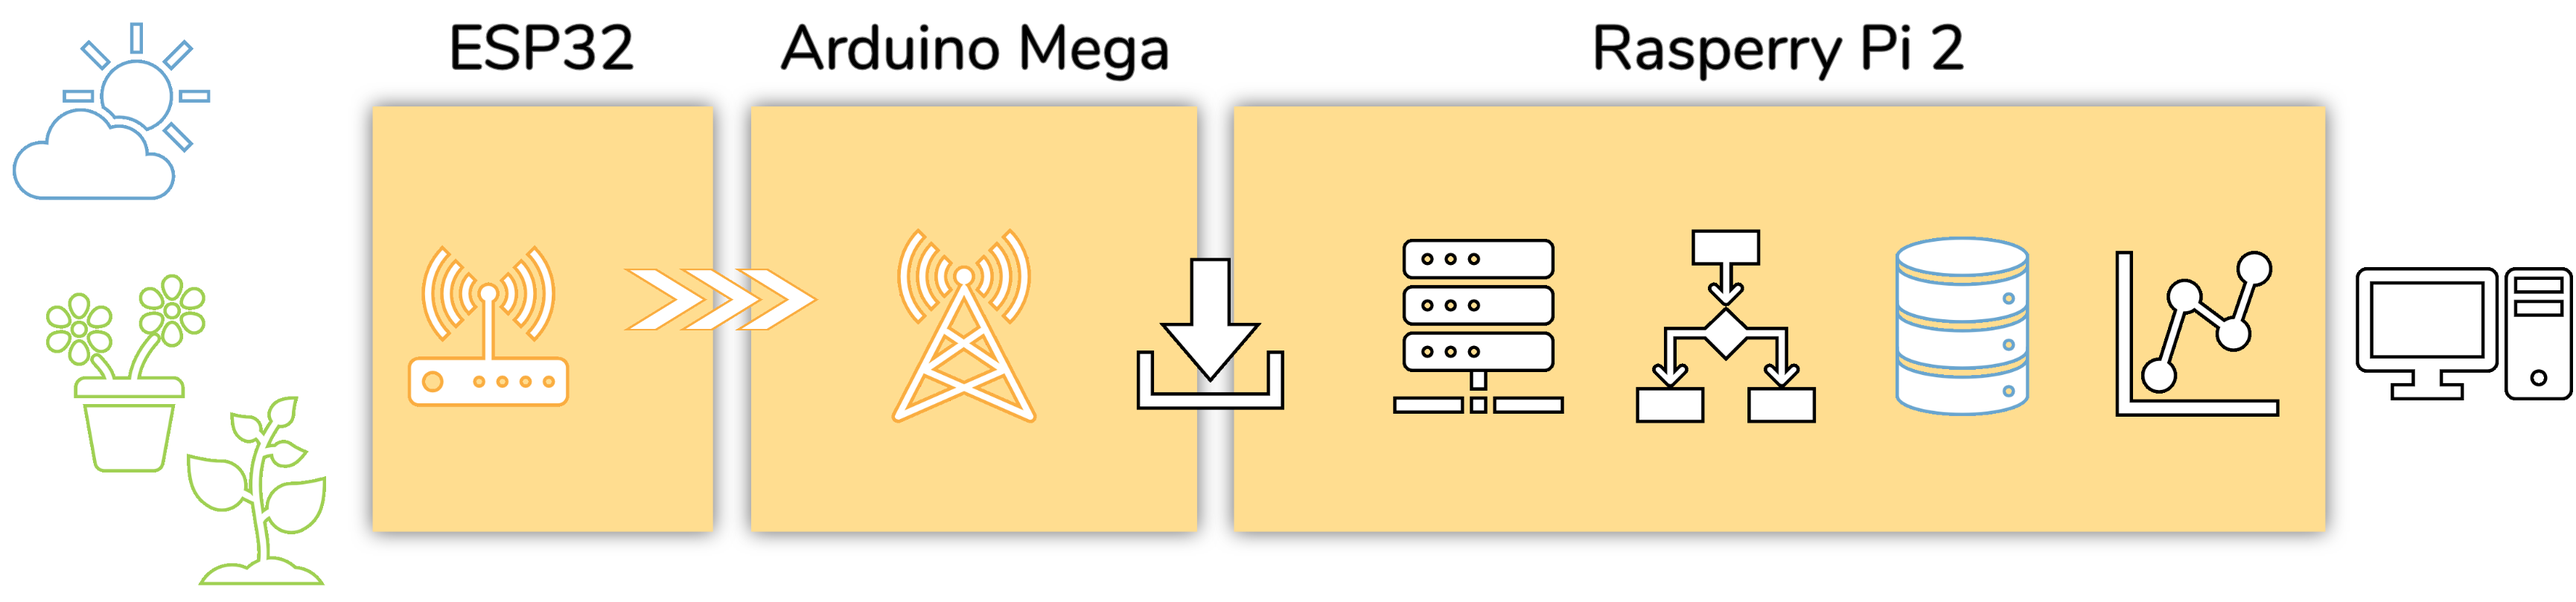
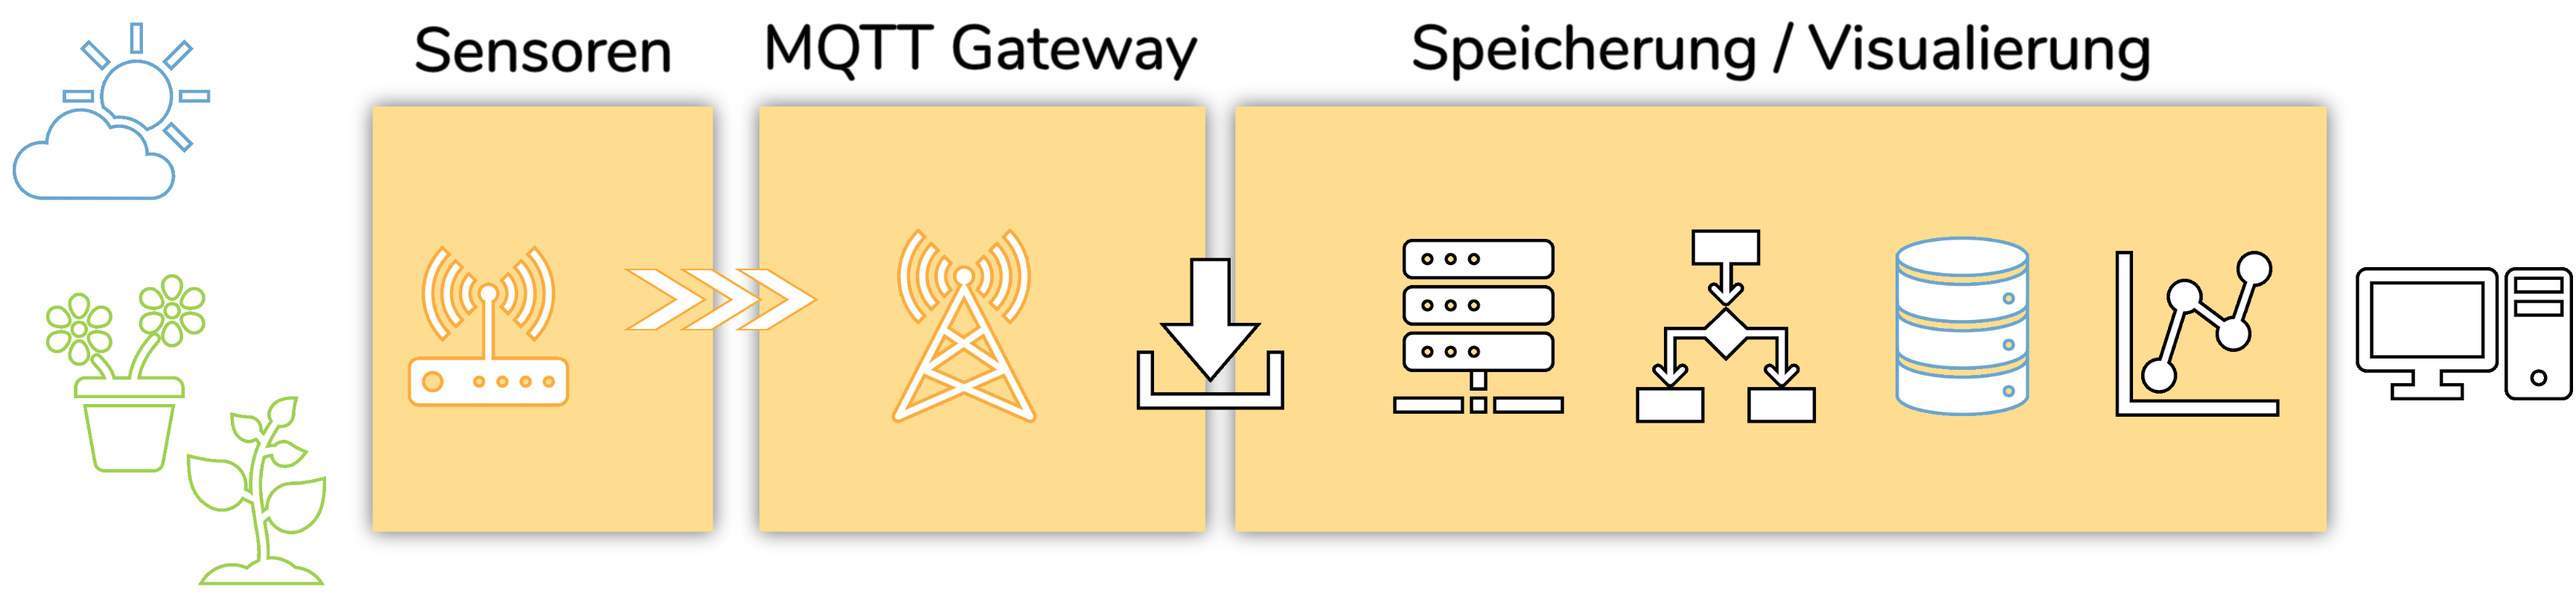
no message

diff --git a/LaTex/CAS-BDG-Semesterarbeit-Marc-Habegger.tex b/LaTex/CAS-BDG-Semesterarbeit-Marc-Habegger.tex
@@ -2,7 +2,7 @@
   12pt, % Fontsize
   a4paper, % papersize
   twoside, % For twosided documents
-  openright, % Chapters start always at a odd page
+  openany, % Chapters start always at a odd page
   numbers=noenddot, % No final dots in Sectionnumbers, e.g 1.2 instead of 1.2.
   BCOR=5mm, % Correction length for lost space from binding
   parskip=half*, %No indent but spacing between paragraphs
@@ -36,6 +36,7 @@
 \usepackage{listings} % For Program-Code
 \usepackage{minted}
 \usepackage{caption}
+\captionsetup[figure]{font=footnotesize, labelfont=small}
 \usepackage[export]{adjustbox}
 \usepackage[document]{ragged2e} % left-alignment for text
 
@@ -90,6 +91,9 @@
 \makeindex
 \makeglossaries
 
+% Variablen für diese Arbeit
+\newcommand{\compImgSize}{4cm}
+
 \begin{document}
  
 \newglossaryentry{IoT}
@@ -119,85 +123,74 @@
 %**************************************************************************
 %\part{Part One}
 \chapter*{Management Summary}
-
 Das Internet der Dinge (\Gls{IoT}) zeichnet sich neben einer allgegenwärtigen Verfügbarkeit von Daten auch durch eine grosse Anzahl der Datenquellen aus. Mit dieser Arbeit soll das Zusammenspiel der verschiedenen Komponenten eines Sensornetzwerkes mit einem Speichersystem und einer grafischen Analyse aufgezeigt werden.
 
-\begin{figure}[htp]
   \begin{center}
     \includegraphics[width=18cm, left]{Bilder/Overview.png}
+     \captionsetup{justification=centering}
+      \captionof{figure}{Systemaufbau Funknetzwerk}
   \end{center}
-    \caption{Systemaufbau}
-\end{figure}
+   
+Das realisierte Netzwerk besteht aus mehreren Sensoren welche Messdaten über Funk an ein MQTT-Gateway senden welches wieder über das Netzwerk mit der Datenbank verbunden ist. Für die Speicherung der Daten wird eine Zeitreihendatenbank verwendet welche speziell für die Behandlung von Messwerten optimiert ist.
 
+  \begin{center}
+    \includegraphics[width=14cm, left]{Bilder/Overview-2.png}
+     \captionsetup{justification=centering}
+      \captionof{figure}{Systemaufbau}
+  \end{center}
+  Schlussendlich werden die Daten visualisiert und können über einen Browser betrachtet werden. Beim erreichen oder unterschreiten selbst definierter Schwellwerte kann ein Alarm ausgelöst werden.
 \chapter{Einleitung}
 \section{Übersicht}
 Die Komponenten wurden durch das Vorhandensein von Bibliotheken und Treibern sowie die leichte Beschaffung auch innerhalb der Schweiz bestimmt. Der Verzicht auf kommerzielle Systeme erlaubt eine grosse Flexibilität in der Kombination von Funktionalitäten.
 \section{Hardware}
 
-\chapter{Aufbau der Sensoren}
+\chapter{Sensor Plattform}
 \section{Mikrokontroller}
 Ein sehr beliebter Mikrokontroller ist der ESP32 von Espressif \cite{espressif} welcher durch grossen Funktionsumfang und einen recht geringen Preis überzeugen kann. Ein Vorteil ist ebenfalls die Möglichkeit der Programmierung durch die Arduino\cite{arduino} IDE welche frei verfügbar ist und die Entwicklung stark vereinfacht. Es existieren viele verschiedene Mikrocontroller welche den ESP32 Baustein verwenden, für dieses Projekt kam der Firebeetle \cite{firebeetle} von DF Robot zum Einsatz.  \footnote{https://www.bastelgarage.ch/firebeetle-esp32-iot-mikrocontroller-mit-wifi}
-
-\begin{figure}[ht]
-	\begin{minipage}[t]{0.5\linewidth}
-		\centering
-		\includegraphics[ width=0.75\linewidth, valign=t]{Bilder/Firebeetle.jpg} 
-		 \caption{Firebeetle mit dem ESP32 Mikrokontroller}
-	\end{minipage}%
-	\begin{minipage}[t]{0.5\linewidth}
-	Der ESP32 besitzt sowohl WLAN als auch Bluetooth LE Schnittstellen. Diese wurden jedoch aus Gründen des Stromverbrauchs (WLAN) oder der Reichweite (Bluetooth LE) in diesem Projekt nicht verwendet.\break \break
-	 Der Firebeetle\cite{firebeetle} Baustein hat sowohl die Möglichkeit einer Stromversorgung mit 5 Volt als auch mit 3.7 Volt, womit er direkt durch Lithium-Ionen Akkus betrieben werden kann.
-	\end{minipage}
-\end{figure}
-
- \section{Sensoren}
+\begin{center}
+\begin{minipage}[t]{0.5\linewidth}
+	\centering
+	\includegraphics[ width=0.75\linewidth, valign=t]{Bilder/Firebeetle.jpg} 
+	 \captionof{figure}{Firebeetle mit dem ESP32 Mikrokontroller}
+\end{minipage}%
+\begin{minipage}[t]{0.5\linewidth}
+Der ESP32 besitzt sowohl WLAN als auch Bluetooth LE Schnittstellen. Diese wurden jedoch aus Gründen des Stromverbrauchs (WLAN) oder der Reichweite (Bluetooth LE) in diesem Projekt nicht verwendet.\break \break
+ Der Firebeetle\cite{firebeetle} Baustein hat sowohl die Möglichkeit einer Stromversorgung mit 5 Volt als auch mit 3.7 Volt, womit er direkt durch Lithium-Ionen Akkus betrieben werden kann.
+\end{minipage}
+\end{center}
+\section{Sensoren}
  Es existiert eine grosse Anzahl an verschiedenen Sensoren welche auch für Privatanwendern nutzbar sind. In diesem Projekt wurden Sensoren gewählt für welche frei verfügbare Bibliotheken in einer Version für den ESP32 vorhanden sind. Grundsätzlich wird bei den Sensoren unterschieden zwischen solchen die 
  \begin{itemize}
 	 \item Digitale Werte liefern die direkt einer Einheit (Grad Celsius) oder Prozentangabe (Luftfeuchtigkeit) entsprechen
 	  \item Analoge Messwerte welche auf eine Einheit umgerechnet werden müssen
 \end{itemize}
- 
- \subsection{Temperatur und Luftfeuchtigkeit}
- \subsubsection{DHT22}
- \begin{figure}[htp]
-  \begin{center}
-    \includegraphics[width=5cm, left]{Bilder/DHT22.jpg}
-  \end{center}
-    \caption{Temperatur und Luftfeuchtigkeitsmesser DHT22}
-  \label{fig:dht22}
-\end{figure}
-DHT22 im Onlineshop \footnote{https://www.bastelgarage.ch/dht22-temperatur-und-luftfeuchtigkeitssensor-steckbar}
+Für dieses Projekt wurden mehrere Sensoren ausgewählt und kombiniert:
+\begin{itemize}
+	\item Luft Temperatur- und Luft Feuchtigkeitssensoren DHT11 [\ref{DHT11}] und DHT22 [\ref{DHT22}]
+	\item Kapazitiver Bodenfeuchtesensor V1.2 [\ref{moistV1.2}]
+\end{itemize}
+\section{Aufbau}
+Die Komponenten werden alle mit den 3.7 Volt und Masse Anschlüssen verbunden. Das Funkmodul benötigt die SPI Kontakte SCK, MOSI und MISO und zusätzlich zwei Digitale Pins für CE und CSN welche frei gewählt werden können. In meinem Code habe ich CE auf den Pin 25 gesetzt und CSN auf Pin 26. Wenn man andere Pins verwenden möchte dann kann dies bei Initialisierung des Funkmoduls angegeben werden: \mint{c}|radio = new RF24(25, 26); //CE, CSN|
+Der Daten-Input des Temperatur Sensors benötigt einen Digitalen Eingang welchen ich auf den Pin 27 gesetzt habe. Der Bodenfeuchtigkeitssensor hat einen analogen Ausgang welchen ich mit Pin 4 verbunden hab. Falls andere Pins verwendet werden so können die Variablen am Anfang des Programms angepasst werden:
+\begin{minted}{c}
+// DHT Sensor
+uint8_t DHTPin = 27;
+// Moisture Sensor
+uint8_t MOISTSENSOR_PIN = 4;
+\end{minted}
+Die Schaltung kann über den Mikro-USB Anschluss oder einen Lithium-Ionen-Akku mit Strom versorgt werden. Wenn ein Akku direkt angeschlossen werden soll hat es auf der Rückseite  unterhalb des USB Anschlusses zwei Lötaugen. Ein so angeschlossener Akku kann danach über die USB Buchse geladen werden, der ESP32 enthält zu diesem Zweck eine Lade-Elektronik.
 
-\subsubsection{DHT11}
-Als alternative zu dem oben genannten DHT22 gibt es eine billigere Variante mit dem Namen DHT11. \footnote{https://www.bastelgarage.ch/dht11-temperatur-und-luftfeuchtigkeitssensor?search=dht11}
-\begin{figure}[ht]
-	\begin{minipage}[t]{0.5\linewidth}
-		\centering
-		\includegraphics[ width=0.75\linewidth, valign=t]{Bilder/DHT11.jpg} 
-		 \caption{DHT11 Luft- und Feuchtigkeitssensor}
-	\end{minipage}%
-	\begin{minipage}[t]{0.5\linewidth}
-	Der DHT11 Sensor hat eine geringere Auflösung als der DHT22, ist ansonsten aber gleich verwendbar.
-	\end{minipage}
-\end{figure}
-
-\subsection{Bodenfeuchtigkeit}
-
-\begin{center}
-\includegraphics[width=5cm, left]{Bilder/Soil-2.jpg}%
-\captionof{figure}{Kapazitiver Bodenfeuchtesensor V1.2}\label{labelname}%
-\end{center}
-Bodensensor im Onlineshop \footnote{https://www.bastelgarage.ch/bauteile/sensoren/kapazitiver-bodenfeuchtesensor-v1-2}
-
-\subsection{Aufbau}
-\begin{figure}[htp]
   \begin{center}
     \includegraphics[width=17cm, left]{Bilder/Sensor-Design_Steckplatine.png}
-  \end{center}
-    \caption{Verdrahtung der Komponenten}
-\end{figure}
+    \captionsetup{justification=centering}
+    \captionof{figure}{Verdrahtung der Komponenten}
+   \end{center}
 
- \section{Funkverbindung}
+
+ \section{Funkverbindung mit dem MQTT Gateway}
+ Da die Sensoren nicht WLAN als Funktechnik verwenden können sie nicht direkt auf den MQTT Server verbinden und Nachrichten senden. Diese Aufgabe übernimmt das MQTT-Gateway welches auf der einen Seite ebenfalls mit einem NRF24\ref{nrf24} Funkmodul ausgerüstet ist und andererseits eine Ethernet Netzwerkanbindung hat.
+ 
+ Jedes Funkmodul kann mit 5 anderen Modulen kommunizieren, dabei muss jedes Modul eine eigene Adresse verwenden unter der es senden und empfangen kann.
 \begin{center}
     \begin{minipage}[b]{0.45\textwidth}
         \centering
@@ -205,36 +198,70 @@ Bodensensor im Onlineshop \footnote{https://www.bastelgarage.ch/bauteile/sensore
         \captionsetup{justification=centering}
         \captionof{figure}{Funkverbindung}
     \end{minipage}\hfill
-    \begin{minipage}[b]{0.45\textwidth}
+    \begin{minipage}[b]{0.45\textwidth}\label{nrf24}
         \centering
-        \includegraphics[width=5cm]{Bilder/NRF24.jpg} % second figure itself
+        \includegraphics[width=\compImgSize]{Bilder/NRF24.jpg} % second figure itself
         \captionsetup{justification=centering}
         \captionof{figure}{NRF24L01+ Funkmodul}
     \end{minipage}
 \end{center}
-NRF24L01+ \footnote{https://www.bastelgarage.ch/bauteile/funk-wireless-lora/nrf24l01-wireless-funk-modul-2-4ghz}
+Bei der Programmierung der Sensoren wurde darauf geachtet dass die Identifikation der Sensoren über eine einzigartige Id unabhängig vom Programmcode vorgenommen werden kann [\ref{config}].
+\begin{center}
+    \begin{minipage}[b]{0.45\textwidth}
+        \centering
+        \includegraphics[width=9cm]{Bilder/NRF24Kommunikation.png}
+        \captionsetup{justification=centering}
+        \captionof{figure}{Funkkanäle des NRF24L01}
+    \end{minipage}\hfill
+    \begin{minipage}[b]{0.45\textwidth}
+        \centering
+        \includegraphics[width=7cm]{Bilder/NRF24Kommunikation-2.png} % second figure itself
+        \captionsetup{justification=centering}
+        \captionof{figure}{Addressierung Funkmodule}
+    \end{minipage}
+\end{center}
+Die Identifikation eines Sensors ist aber nicht zu Verwechseln mit einer Prüfung ob der Sender überhaupt berechtigt ist Daten zu senden. Da das Funkprotokoll unverschlüsselt ist können andere Sender ebenfalls Nachrichten absenden und so Daten verfälschen oder die Verarbeitung stören. Um dies zu verhindern wird eine Technik Namens \Gls{HMAC} eingesetzt.
  \begin{listing}[h]
- \begin{minted}[frame=single,
-               framesep=3mm,
-               linenos=true,
-               xleftmargin=10pt,
-               tabsize=4,
-               fontsize=\small]{js}
+ \begin{minted}{js}
  3A51266ABD432C1FB797DEDEE215FD16E42BAB627F104BCB6F4169EDE4544582:4;25.1;71.1;10.2
  \end{minted}
   \caption{Format des Datensatz über Funk}
  \end{listing}
 
  \section{Software}
+ \subsection{Konfiguration eines Sensors}\label{config}
 
 %
 \chapter{IoT Gateway}
 \section{Übersicht}
 \section{Hardware}
 \section{Funkverbindung}
+\subsection{Aufbau}
+\begin{figure}[htp]
+  \begin{center}
+    \includegraphics[width=12cm, left]{Bilder/MQTT-Gateway-Design_Steckplatine.png}
+  \end{center}
+    \caption{Verdrahtung der Komponenten}
+\end{figure}
 \subsection{Zugriffsschutz}
 Jede empfangene Nachricht wird durch die Valdierung des HMAC (\Gls{HMAC}) sowohl auf einen berechtigten Absender, als auch auf unverfälschte Daten überprüft.
 \section{Software}
+\begin{listing}
+\begin{minted}[frame=single,
+               framesep=3mm,
+               linenos=true,
+               xleftmargin=21pt,
+               tabsize=4]{js}
+{     
+    "ID": 0001, 
+    "Temp.Air": 22.6,
+    "Hum.Air": 78.1, 
+    "Hum.Soil": 43.7
+}
+\end{minted}
+\caption{JSON example} 
+\label{json-example}
+\end{listing}
 \chapter{Speicherung und Visualisierung}
 \section{Übersicht}
 \begin{center}
@@ -243,22 +270,56 @@ Jede empfangene Nachricht wird durch die Valdierung des HMAC (\Gls{HMAC}) sowohl
 \end{center}
 \section{Hardware}
 \section{Visualisierung}
-\begin{listing}
-\begin{minted}[frame=single,
-               framesep=3mm,
-               linenos=true,
-               xleftmargin=21pt,
-               tabsize=4]{js}
-{     
-    "firstName": "John"
-    "lastName" : "Smith",
-    "age" : 25
-}
-\end{minted}
-\caption{JSON example} 
-\label{json-example}
-\end{listing}
 
+\chapter{Verwendete Bauteile}
+\section{ESP32 Mikrokontroller}
+\begin{center}
+    \includegraphics[width=14cm, left]{Bilder/FireBeetleBoard.png}
+    \captionsetup{justification=raggedright}
+    \captionof{figure}{Anschlüsse des Firebeetle}
+\end{center}
+ \section{Sensoren}
+ \subsection{Temperatur und Luftfeuchtigkeit}
+ \subsubsection{DHT22}\label{DHT22}
+\begin{flushleft}
+	\begin{minipage}[t]{0.5\linewidth}
+		\centering
+    		\includegraphics[width=\compImgSize, left]{Bilder/DHT22.jpg}
+    		\captionof{figure}{Temperatur und Luftfeuchtigkeitsmesser DHT22}
+	\end{minipage}%
+	\begin{minipage}[t]{0.5\linewidth}
+	DHT22 im Onlineshop \footnotemark
+	\end{minipage}
+	\footnotetext{https://www.bastelgarage.ch/dht22-temperatur-und-luftfeuchtigkeitssensor-steckbar}
+\end{flushleft}
+
+\subsubsection{DHT11}\label{DHT11}
+\begin{flushleft}
+	\begin{minipage}[t]{0.5\linewidth}
+		\centering
+		\includegraphics[ width=\compImgSize, left]{Bilder/DHT11.jpg} 
+		 \captionof{figure}{DHT11 Luft- und Feuchtigkeitssensor}
+	\end{minipage}%
+	\begin{minipage}[t]{0.5\linewidth}
+	Als Alternative zu dem oben genannten DHT22 gibt es eine billigere Variante mit dem Namen DHT11 \footnotemark.
+	Der DHT11 Sensor hat eine geringere Auflösung als der DHT22, ist ansonsten aber gleich verwendbar.
+	\end{minipage}
+	 \footnotetext{https://www.bastelgarage.ch/dht11-temperatur-und-luftfeuchtigkeitssensor}
+\end{flushleft}
+
+\subsection{Bodenfeuchtigkeit}\label{moistV1.2}
+\begin{center}
+\includegraphics[width=\compImgSize, left]{Bilder/Soil-2.jpg}%
+\captionof{figure}{Kapazitiver Bodenfeuchtesensor V1.2}\label{labelname}%
+\end{center}
+Bodensensor im Onlineshop \footnote{https://www.bastelgarage.ch/bauteile/sensoren/kapazitiver-bodenfeuchtesensor-v1-2}
+\subsection{Funk}
+\begin{flushleft}
+        \includegraphics[width=\compImgSize]{Bilder/NRF24.jpg} % second figure itself
+        \captionsetup{justification=raggedright}
+        \captionof{figure}{NRF24L01+ Funkmodul}
+\end{flushleft}
+NRF24L01+ \footnote{https://www.bastelgarage.ch/bauteile/funk-wireless-lora/nrf24l01-wireless-funk-modul-2-4ghz}
 % List of Figures
 \listoffigures
 % List of Tables
